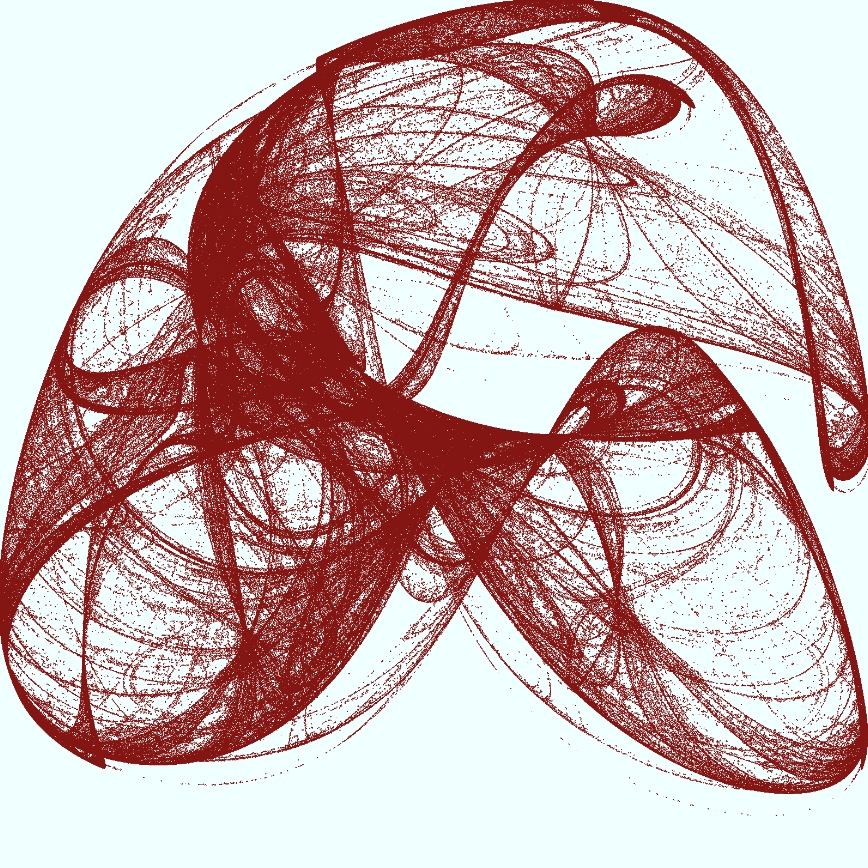
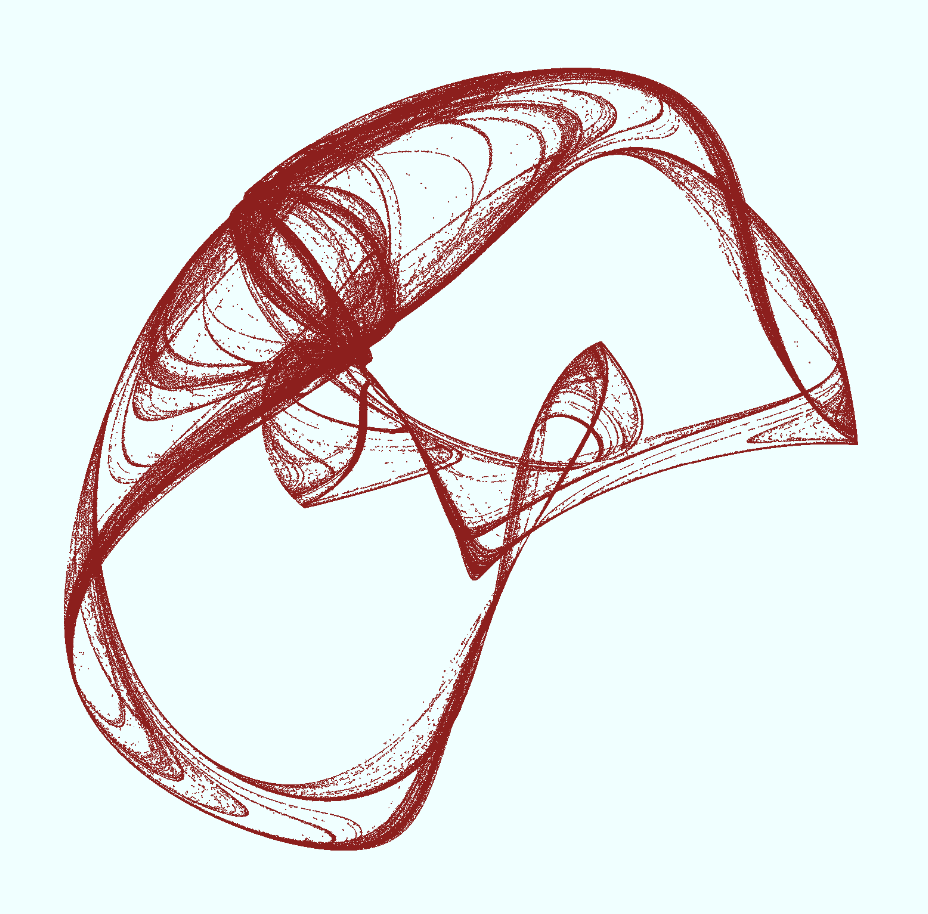
update the swirl image

diff --git a/example/example_swirl.go b/example/example_swirl.go
@@ -12,8 +12,8 @@ func main() {
 	c := generativeart.NewCanva(1600, 1600)
 	c.SetBackground(generativeart.Azure)
 	c.FillBackground()
-	c.SetForeground(color.RGBA{113, 3, 0, 180})
-	c.SetIterations(8000000)
-	c.Draw(generativeart.NewSwirl(0.970, -1.899, -1.381, -1.506, 2.0, 2.0))
+	c.SetForeground(color.RGBA{113, 3, 0, 140})
+	c.SetIterations(4000000)
+	c.Draw(generativeart.NewSwirl(0.970, -1.899, 1.381, -1.506, 2.4, 2.4))
 	c.ToPNG("swirl.png")
 }

diff --git a/swirl.go b/swirl.go
@@ -40,6 +40,7 @@ func (s *swirl) Generative(c *canva) {
 	}
 
 	s.removeNoisy(c)
+	s.removeNoisy(c)
 }
 
 func (s *swirl) swirlTransform(p point) point {
